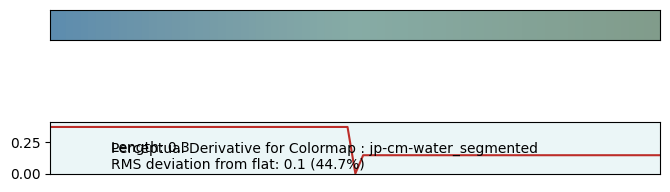
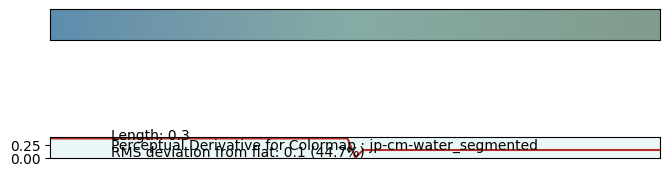
update readme

Changed region(s): [[0.0, 0.625, 0.9851, 0.9375], [0.0597, 0.1989, 0.9851, 0.2557], [0.0896, 0.0284, 0.9851, 0.0568]]

diff --git a/gen/gen.py b/gen/gen.py
@@ -109,7 +109,7 @@ def calculatePD(gradient, RGB, name):
     ax.get_xaxis().set_visible(False)
     ax.margins(0.0)
     ax.set_facecolor(aijiro)
-    ax.set_aspect(16)
+    ax.set_aspect(16*delta_ymax(local_derivs))
     return fig
 
 def gen_cmaps(cmaps,segmented=False):
